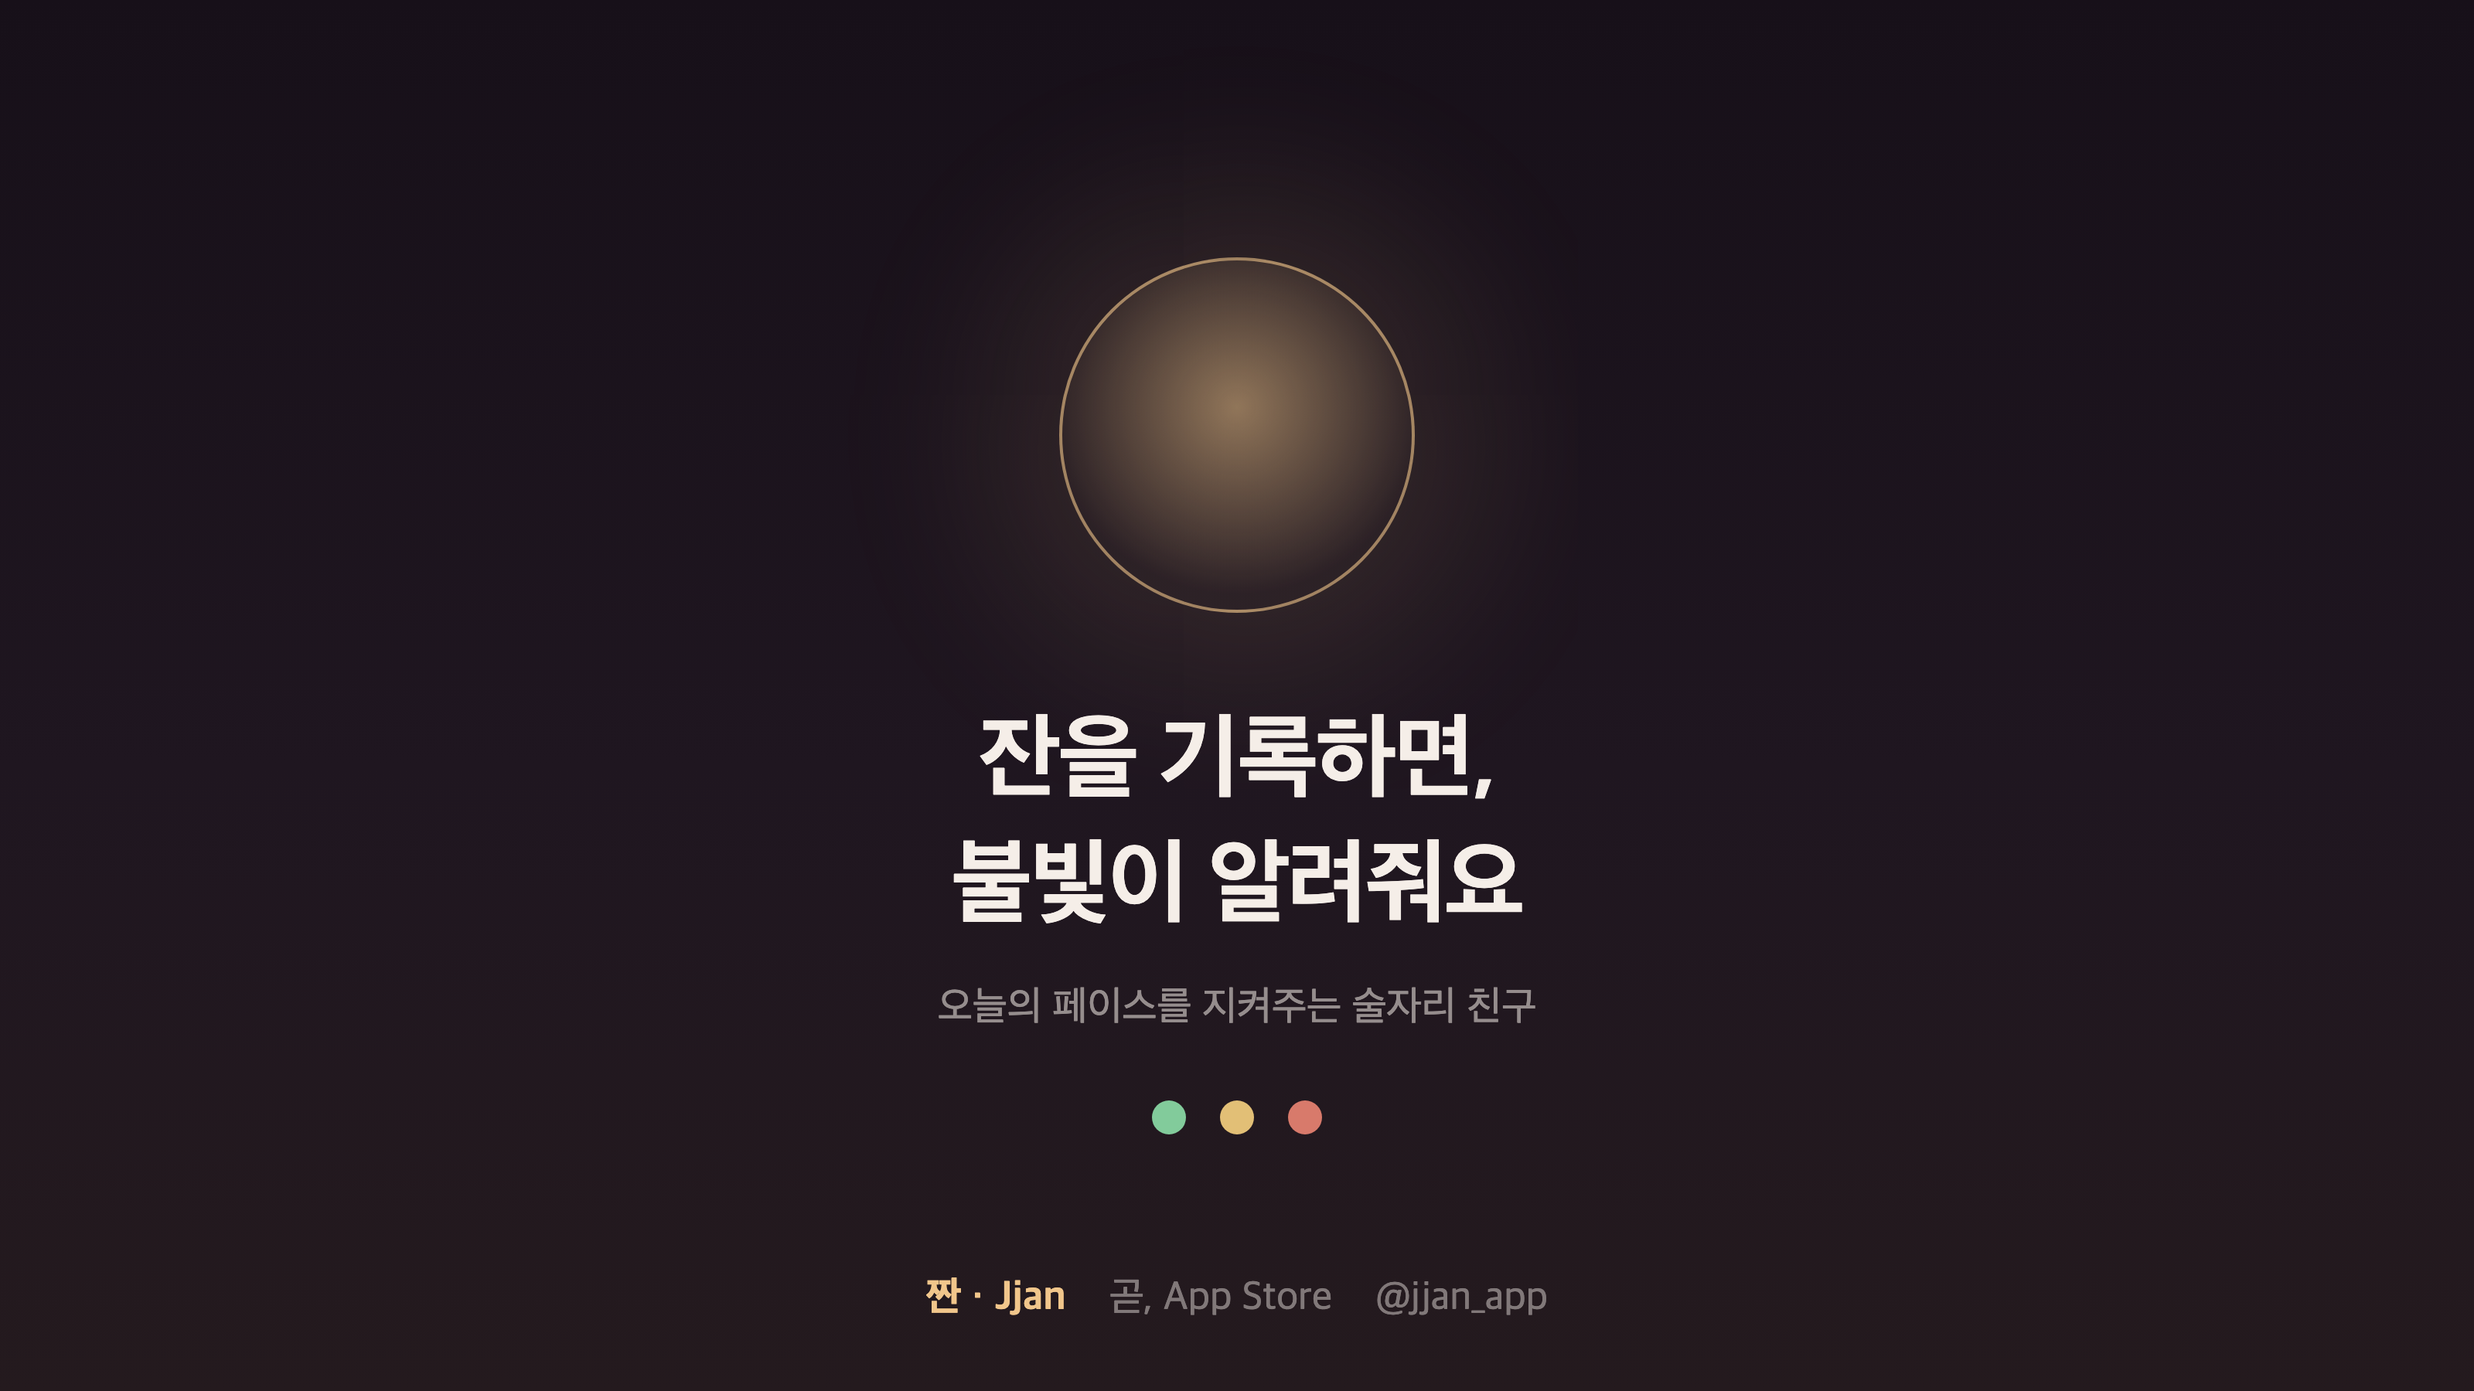
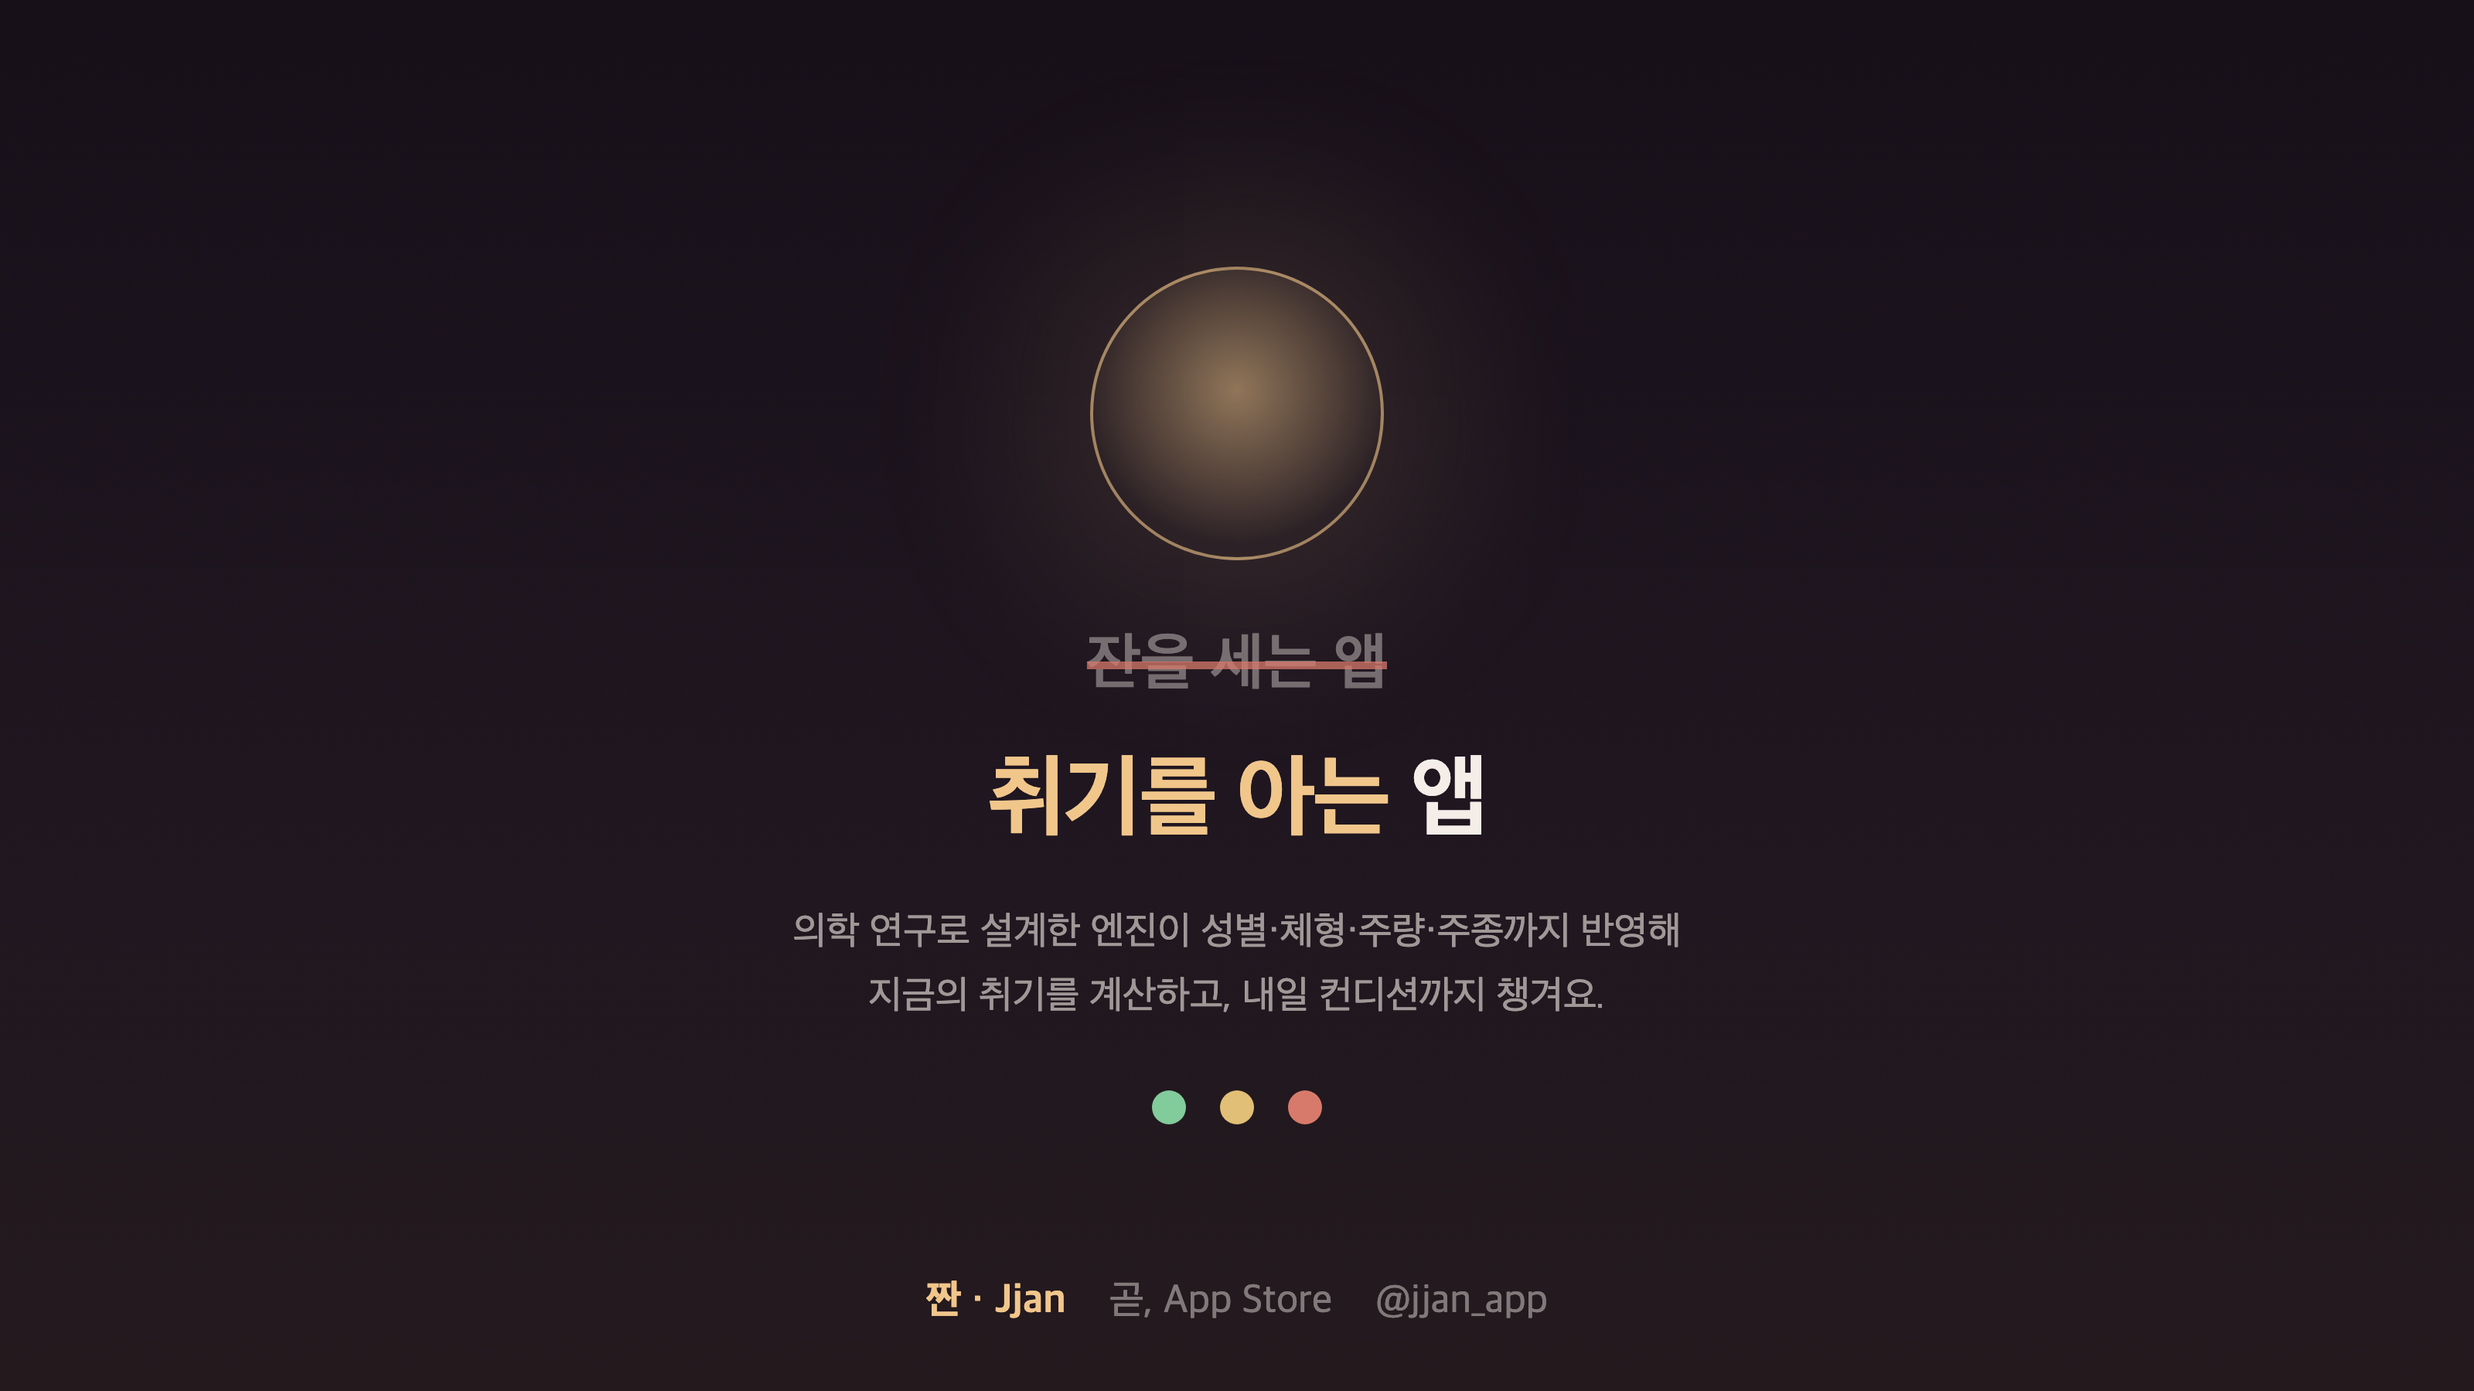
포지셔닝 v2: '취기를 아는 앱' — 티저·랜딩 히어로 재작성

diff --git a/index.html b/index.html
@@ -4,7 +4,7 @@
 <meta charset="utf-8">
 <meta name="viewport" content="width=device-width, initial-scale=1">
 <title>짠 (Jjan) — 오늘의 페이스를 지켜주는 술자리 친구</title>
-<meta name="description" content="잔을 원탭으로 기록하면, 나에게 맞춘 불빛이 오늘의 페이스를 읽어줘요. 판단하지 않는 친구 같은 음주 기록 앱.">
+<meta name="description" content="잔을 세는 앱이 아니라, 취기를 아는 앱. 의학 연구 기반 엔진이 나만의 취기를 계산하고 컨디션까지 챙겨요.">
 <meta property="og:title" content="짠 (Jjan)">
 <meta property="og:description" content="잔을 기록하면, 불빛이 오늘의 페이스를 읽어줘요.">
 <meta property="og:url" content="https://jjan.io">
@@ -23,8 +23,8 @@
 
   <section class="hero">
     <div class="glow" aria-hidden="true"></div>
-    <h1>잔을 기록하면,<br>불빛이 알려줘요</h1>
-    <p class="sub">오늘의 페이스를 지켜주는 술자리 친구, 짠.</p>
+    <h1>잔을 세는 앱이 아니라,<br>취기를 아는 앱</h1>
+    <p class="sub">의학 연구로 설계한 엔진이 지금의 취기를 계산하고,<br>내일 컨디션까지 챙겨요.</p>
     <div class="dots" aria-hidden="true"><span class="g"></span><span class="y"></span><span class="r"></span></div>
     <span class="badge soon">App Store 곧 출시</span>
   </section>
@@ -36,11 +36,11 @@
     </div>
     <div class="card">
       <h3><span class="em">초록 · 노랑 · 빨강</span> 세 가지 불빛</h3>
-      <p>성별·체형·평소 주량으로 개인화한 불빛이 지금 얼마나 즐기고 있는지 조용히 읽어줘요. 숫자로 다그치지 않아요.</p>
+      <p>알코올 대사 연구를 바탕으로 성별·나이·체형·평소 주량·홍조 체질, 주종별 흡수 속도까지 반영해 나만의 취기 곡선을 계산해요. 숫자로 다그치지 않고, 불빛으로 조용히 읽어줘요.</p>
     </div>
     <div class="card">
-      <h3>아침 리포트</h3>
-      <p>다음 날 아침, 판단하지 않는 친구의 말투로 어젯밤을 돌아봐요. 잘한 건 잘했다고, 아쉬운 건 딱 한마디만.</p>
+      <h3>아침 리포트 &amp; 컨디션 관리</h3>
+      <p>다음 날 아침, 판단하지 않는 친구의 말투로 어젯밤을 돌아보고 오늘 컨디션을 물어봐요. 답할수록 짠이 나를 더 정확히 알아가요.</p>
     </div>
     <div class="card">
       <h3>조용히 빠져나가기</h3>

diff --git a/social/teaser1_x.html b/social/teaser1_x.html
@@ -14,19 +14,21 @@
   }
   .stage { display: flex; flex-direction: column; align-items: center; }
   .glow {
-    width: 230px; height: 230px; border-radius: 50%;
+    width: 190px; height: 190px; border-radius: 50%;
     background: radial-gradient(circle at 50% 42%, rgba(241,198,139,.55), rgba(241,198,139,.07) 70%);
     border: 2px solid rgba(241,198,139,.6);
     box-shadow: 0 0 140px 30px rgba(241,198,139,.14);
-    margin-bottom: 56px;
+    margin-bottom: 44px;
   }
-  h1 { font-size: 60px; font-weight: 700; line-height: 1.35; text-align: center; letter-spacing: -.02em; }
-  .sub { margin-top: 22px; font-size: 26px; color: rgba(245,238,232,.55); }
-  .dots { display: flex; gap: 22px; margin-top: 44px; }
+  .strike { font-size: 40px; font-weight: 590; color: rgba(245,238,232,.4); text-decoration: line-through; text-decoration-color: rgba(216,122,107,.75); text-decoration-thickness: 5px; margin-bottom: 26px; }
+  h1 { font-size: 58px; font-weight: 700; line-height: 1.32; text-align: center; letter-spacing: -.02em; }
+  h1 .em { color: #F1C68B; }
+  .sub { margin-top: 26px; font-size: 25px; line-height: 1.65; color: rgba(245,238,232,.6); text-align: center; }
+  .dots { display: flex; gap: 22px; margin-top: 40px; }
   .dots span { width: 22px; height: 22px; border-radius: 50%; }
   .g { background: #82CB9B; } .y { background: #E2BF76; } .r { background: #D87A6B; }
   .foot {
-    position: absolute; bottom: 44px; left: 0; right: 0;
+    position: absolute; bottom: 42px; left: 0; right: 0;
     display: flex; justify-content: center; gap: 28px;
     font-size: 26px; color: rgba(245,238,232,.45);
   }
@@ -36,8 +38,9 @@
 <body>
   <div class="stage">
     <div class="glow"></div>
-    <h1>잔을 기록하면,<br>불빛이 알려줘요</h1>
-    <p class="sub">오늘의 페이스를 지켜주는 술자리 친구</p>
+    <div class="strike">잔을 세는 앱</div>
+    <h1><span class="em">취기를 아는</span> 앱</h1>
+    <p class="sub">의학 연구로 설계한 엔진이 성별·체형·주량·주종까지 반영해<br>지금의 취기를 계산하고, 내일 컨디션까지 챙겨요.</p>
     <div class="dots"><span class="g"></span><span class="y"></span><span class="r"></span></div>
   </div>
   <div class="foot"><span class="brand">짠 · Jjan</span><span>곧, App Store</span><span>@jjan_app</span></div>

diff --git a/social/teaser1.html b/social/teaser1.html
@@ -14,15 +14,17 @@
   }
   .stage { display: flex; flex-direction: column; align-items: center; }
   .glow {
-    width: 340px; height: 340px; border-radius: 50%;
+    width: 300px; height: 300px; border-radius: 50%;
     background: radial-gradient(circle at 50% 42%, rgba(241,198,139,.55), rgba(241,198,139,.07) 70%);
     border: 2px solid rgba(241,198,139,.6);
     box-shadow: 0 0 140px 30px rgba(241,198,139,.14);
-    margin-bottom: 110px;
+    margin-bottom: 96px;
   }
-  h1 { font-size: 76px; font-weight: 700; line-height: 1.35; text-align: center; letter-spacing: -.02em; }
-  .sub { margin-top: 34px; font-size: 32px; color: rgba(245,238,232,.55); }
-  .dots { display: flex; gap: 22px; margin-top: 78px; }
+  .strike { font-size: 54px; font-weight: 590; color: rgba(245,238,232,.4); text-decoration: line-through; text-decoration-color: rgba(216,122,107,.75); text-decoration-thickness: 5px; margin-bottom: 26px; }
+  h1 { font-size: 78px; font-weight: 700; line-height: 1.32; text-align: center; letter-spacing: -.02em; }
+  h1 .em { color: #F1C68B; }
+  .sub { margin-top: 40px; font-size: 30px; line-height: 1.65; color: rgba(245,238,232,.6); text-align: center; }
+  .dots { display: flex; gap: 22px; margin-top: 70px; }
   .dots span { width: 22px; height: 22px; border-radius: 50%; }
   .g { background: #82CB9B; } .y { background: #E2BF76; } .r { background: #D87A6B; }
   .foot {
@@ -36,8 +38,9 @@
 <body>
   <div class="stage">
     <div class="glow"></div>
-    <h1>잔을 기록하면,<br>불빛이 알려줘요</h1>
-    <p class="sub">오늘의 페이스를 지켜주는 술자리 친구</p>
+    <div class="strike">잔을 세는 앱</div>
+    <h1><span class="em">취기를 아는</span> 앱</h1>
+    <p class="sub">의학 연구로 설계한 엔진이 성별·체형·주량·주종까지 반영해<br>지금의 취기를 계산하고, 내일 컨디션까지 챙겨요.</p>
     <div class="dots"><span class="g"></span><span class="y"></span><span class="r"></span></div>
   </div>
   <div class="foot"><span class="brand">짠 · Jjan</span><span>곧, App Store</span><span>@jjan_app</span></div>

diff --git a/social/teaser1_sq.html b/social/teaser1_sq.html
@@ -14,15 +14,17 @@
   }
   .stage { display: flex; flex-direction: column; align-items: center; }
   .glow {
-    width: 280px; height: 280px; border-radius: 50%;
+    width: 240px; height: 240px; border-radius: 50%;
     background: radial-gradient(circle at 50% 42%, rgba(241,198,139,.55), rgba(241,198,139,.07) 70%);
     border: 2px solid rgba(241,198,139,.6);
     box-shadow: 0 0 140px 30px rgba(241,198,139,.14);
-    margin-bottom: 70px;
+    margin-bottom: 60px;
   }
-  h1 { font-size: 76px; font-weight: 700; line-height: 1.35; text-align: center; letter-spacing: -.02em; }
-  .sub { margin-top: 34px; font-size: 32px; color: rgba(245,238,232,.55); }
-  .dots { display: flex; gap: 22px; margin-top: 56px; }
+  .strike { font-size: 54px; font-weight: 590; color: rgba(245,238,232,.4); text-decoration: line-through; text-decoration-color: rgba(216,122,107,.75); text-decoration-thickness: 5px; margin-bottom: 26px; }
+  h1 { font-size: 78px; font-weight: 700; line-height: 1.32; text-align: center; letter-spacing: -.02em; }
+  h1 .em { color: #F1C68B; }
+  .sub { margin-top: 40px; font-size: 30px; line-height: 1.65; color: rgba(245,238,232,.6); text-align: center; }
+  .dots { display: flex; gap: 22px; margin-top: 50px; }
   .dots span { width: 22px; height: 22px; border-radius: 50%; }
   .g { background: #82CB9B; } .y { background: #E2BF76; } .r { background: #D87A6B; }
   .foot {
@@ -36,8 +38,9 @@
 <body>
   <div class="stage">
     <div class="glow"></div>
-    <h1>잔을 기록하면,<br>불빛이 알려줘요</h1>
-    <p class="sub">오늘의 페이스를 지켜주는 술자리 친구</p>
+    <div class="strike">잔을 세는 앱</div>
+    <h1><span class="em">취기를 아는</span> 앱</h1>
+    <p class="sub">의학 연구로 설계한 엔진이 성별·체형·주량·주종까지 반영해<br>지금의 취기를 계산하고, 내일 컨디션까지 챙겨요.</p>
     <div class="dots"><span class="g"></span><span class="y"></span><span class="r"></span></div>
   </div>
   <div class="foot"><span class="brand">짠 · Jjan</span><span>곧, App Store</span><span>@jjan_app</span></div>

diff --git a/social/teaser1_copy.md b/social/teaser1_copy.md
@@ -1,40 +1,50 @@
-# 티저 1 — "불빛" (2026-08-30)
+# 티저 1 — "취기를 아는 앱" (포지셔닝 v2, 2026-08-30)
 
-이미지: jjan_teaser_ig_4x5.png (IG 피드) · jjan_teaser_square.png (IG 보조/틱톡 사진) · jjan_teaser_x_16x9.png (X)
+포지셔닝: 기록 앱이 아니라 **취기 분석 + 컨디션 관리 엔진**. 기록은 입력 수단일 뿐.
+이미지: jjan_teaser_ig_4x5.png · jjan_teaser_square.png · jjan_teaser_x_16x9.png
 
 ## Instagram (@jjan_app)
 
-> 오늘 몇 잔인지, 세다가 잊어버린 적 있죠.
+> 몇 잔 마셨는지 세주는 앱은 많아요.
+> 짠은 **지금 내가 얼마나 취했는지**를 계산해요.
 >
-> 이제 잔을 들 때마다 한 번만 탭하세요.
-> 나에게 맞춘 불빛이 오늘의 페이스를 조용히 읽어줘요.
-> 초록이면 여유, 노랑이면 살짝, 빨강이면… 오늘은 여기까지.
+> 성별, 나이, 체형, 평소 주량, 홍조 체질,
+> 심지어 소주와 맥주의 흡수 속도 차이까지 —
+> 알코올 대사 연구를 바탕으로 설계한 엔진이
+> 나만의 취기 곡선을 그려요.
 >
-> 판단하지 않는 술자리 친구, 짠.
+> 오늘 밤엔 페이스를 지켜주고,
+> 다음 날 아침엔 컨디션을 물어봐요.
+> 답할수록 나를 더 정확히 알아가요.
+>
+> 판단하지 않는 술자리 파트너, 짠.
 > 곧 App Store에서 만나요. 🥂
 >
 > jjan.io
 
-해시태그: #짠 #jjan #술자리 #회식 #절주 #소주 #맥주 #혼술 #건강한습관 #앱출시
+해시태그: #짠 #jjan #취기 #술자리 #회식 #컨디션관리 #절주 #소주 #맥주 #건강관리 #앱출시
 
 ## X (@jjan_app)
 
-> 오늘 몇 잔인지 세다 잊어버린 사람 → 나
+> 잔 세주는 앱 말고,
+> 지금 내가 얼마나 취했는지 아는 앱.
 >
-> 잔을 기록하면, 불빛이 알려줘요.
-> 판단하지 않는 술자리 친구, 짠. 곧 App Store에서.
+> 알코올 대사 연구 기반 엔진이 성별·체형·주량·주종까지 반영해
+> 취기를 계산하고, 내일 컨디션까지 챙깁니다.
 >
-> jjan.io
+> 짠. 곧 App Store에서. jjan.io
 
 ## TikTok (@jjan_app) — 사진 게시물용
 
-> 술자리에서 제일 어려운 것: 지금 내가 몇 잔짼지 아는 것
-> 잔을 기록하면, 불빛이 알려줘요. 곧 App Store 🥂
+> "너 얼마나 마셨어?" "몰라"
+> 이제 앱이 알아요. 내 몸 기준으로, 지금 취기를 계산해주는 짠.
+> 곧 App Store 🥂
 
-해시태그: #짠 #술자리 #회식 #소주 #직장인 #앱추천
+해시태그: #짠 #취기 #술자리 #회식 #직장인 #컨디션 #앱추천
 
-## 게시 가이드
+## 포지셔닝 원칙 (시리즈 공통)
 
-- 순서: IG → X → TikTok 같은 날. 프로필 링크는 모두 jjan.io 확인.
-- 다음 티저 후보: ②"조용히 빠져나가기" (30초 뒤 전화가 온다) — 후킹력 최고 기능, ③아침 리포트 카피 맛보기.
-- 카피 규칙: "신호등"·BAC·수치 금지, 죄책감 금지 — 이 문서의 문구는 준수 상태.
+- "기록/트래커"라는 단어로 우리를 소개하지 않기 — 기록은 수단, 가치는 **분석과 컨디션 관리**
+- 근거 표현: "알코올 대사 연구 기반", "의학 연구로 설계" — OK. "논문 N편"처럼 숫자 특정은 검증 전 금지, "AI"는 남용하지 않기(엔진 실체는 약동학 모델)
+- 기존 카피 규칙 유지: "신호등"·BAC·수치 노출 금지, 죄책감 금지, 운전 문맥 금지
+- 다음 티저: ②조용히 빠져나가기(30초 뒤 전화) ③아침 리포트 실제 카피 맛보기
